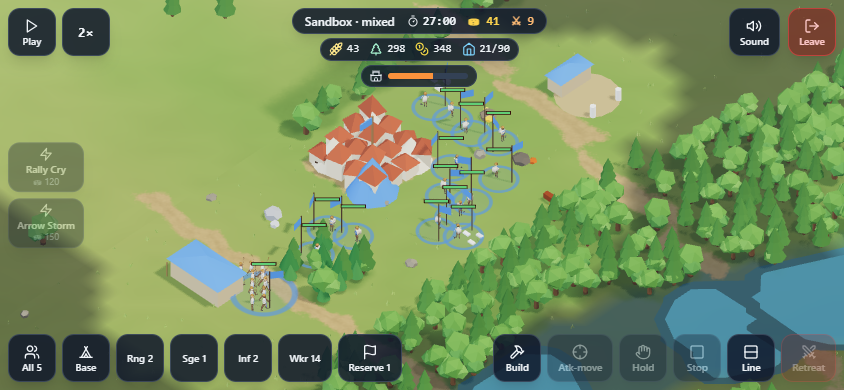
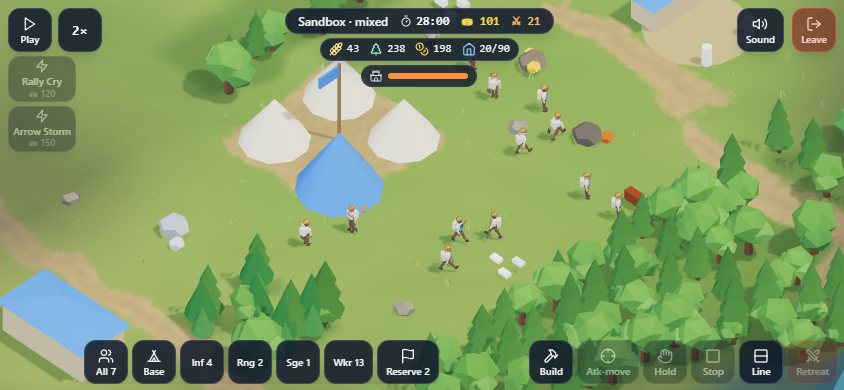
Battle economy: population split and one-tap village house when training waits, phone bench --eco, desktop shots, notes
The building panel shows where the population is (army, laborers, training)
and, when its queue waits for housing, a button that places a village house.
battle-phone-bench.mjs takes --eco. CLAUDE.md and the master plan record phase
R1. The razed-buildings test forges an empty city report so the AI battle's
own damage (longer with the economy) cannot change it.

diff --git a/src/components/battle/EconomyHud.jsx b/src/components/battle/EconomyHud.jsx
@@ -59,7 +59,7 @@ export const BuildMenu = ({ ageId, stock, onPick, onClose }) => (
   </div>
 );
 
-export const BuildingPanel = ({ building, ageId, stock, onTrain, onCancel, onRally, rallyArmed, onClose }) => {
+export const BuildingPanel = ({ building, ageId, stock, eco = null, onTrain, onCancel, onRally, rallyArmed, onClose, onBuildHouse }) => {
   if (!building) return null;
   const def = BUILDINGS[building.type];
   const roles = (def.trains || []).filter((r) => trainableRoles(ageId).includes(r));
@@ -81,7 +81,15 @@ export const BuildingPanel = ({ building, ageId, stock, onTrain, onCancel, onRal
           ))}
         </div>
       )}
-      {building.queue[0]?.blocked === 'housing' && <div className="text-red-300">Needs housing: build a village house.</div>}
+      {eco?.popSplit && roles.length > 0 && (
+        <div className="text-[10px] text-slate-400" data-testid="battle-pop-split">Population {eco.pop}/{eco.cap}: army {eco.popSplit.army}, laborers {eco.popSplit.workers}, training {eco.popSplit.training}</div>
+      )}
+      {building.queue[0]?.blocked === 'housing' && (
+        <button type="button" onClick={onBuildHouse} disabled={!canPay(BUILDINGS.house.cost, stock)} data-testid="battle-build-house"
+          className="mt-1 w-full min-h-[40px] rounded-lg bg-red-950/70 border border-red-500 text-red-100 text-[10px] font-semibold flex items-center justify-center gap-1 disabled:opacity-50">
+          <Home className="w-3.5 h-3.5" />Paused for housing: build a village house, +10 <Cost cost={BUILDINGS.house.cost} stock={stock} />
+        </button>
+      )}
       {building.built && roles.length > 0 && (
         <div className="grid grid-cols-2 gap-1 mt-1">
           {roles.map((role) => (

diff --git a/src/engine/tacticalBattle.test.js b/src/engine/tacticalBattle.test.js
@@ -139,7 +139,7 @@ describe('RESOLVE_TACTICAL_BATTLE', () => {
     const setup = buildInvasionSetup(started, started.pendingBattle);
     expect(setup.structures.filter((st) => st.kind === 'building').map((st) => st.category).sort()).toEqual(['economy', 'military']);
     const { result } = runHeadless({ ...setup, controllers: ['ai', 'ai'] });
-    const forged = { ...result, report: { ...result.report, tactical: { ...result.report.tactical, razed: ['military', 'defense', 'bogus'] } } };
+    const forged = { ...result, report: { ...result.report, tactical: { ...result.report.tactical, razed: ['military', 'defense', 'bogus'], cityDamage: { destroyed: [], damaged: [] } } } }; // only the razed list (the AI battle's own city damage varies with the economy)
     const next = gameReducer(started, { type: ActionTypes.RESOLVE_TACTICAL_BATTLE, payload: { battleId: started.pendingBattle.id, result: forged } });
     expect(next.regions[BE_REGION].buildings.categories.military).toBe(0);
     expect(next.regions[BE_REGION].buildings.categories.economy).toBe(0);

diff --git a/src/components/battle/BattleHud.jsx b/src/components/battle/BattleHud.jsx
@@ -161,7 +161,7 @@ const BattleHud = ({
 
       {/* Bottom: chips (left) + command bar (right) */}
       <div className={`absolute bottom-0 inset-x-0 p-1.5 pb-[calc(0.375rem+env(safe-area-inset-bottom))] flex items-end justify-between gap-2 pointer-events-none ${hud.powers?.length ? 'pl-[84px]' : ''}`}>
-        <div className="pointer-events-auto flex gap-1 min-w-0 overflow-x-auto scrollbar-none" data-testid="battle-chips">
+        <div className="pointer-events-auto flex gap-1 min-w-0 max-w-[58%] overflow-x-auto scrollbar-none" data-testid="battle-chips">
           <HudButton icon={Users} label={`All ${onField.filter((q) => q.classId !== 'worker').length}`} onClick={() => onSelectClass('all')} testId="battle-select-all" />
           {eco && <HudButton icon={Tent} label="Base" onClick={onSelectHq} testId="battle-hq" />}
           {eco && eco.idleWorkers.length > 0 && <HudButton icon={Hammer} label={`Idle ${eco.idleWorkers.length}`} onClick={() => onSelectClass('idle')} testId="battle-idle-workers" />}

diff --git a/src/components/battle/TacticalBattleScreen.jsx b/src/components/battle/TacticalBattleScreen.jsx
@@ -418,7 +418,8 @@ const TacticalBattleView = ({ setup, playerSide = 0, title, resume = null, onChe
       />
       {buildMenu && hud?.eco && <BuildMenu ageId={setup.sides[playerSide].ageId} stock={hud.eco.stock} onPick={pickBuilding} onClose={() => setBuildMenu(false)} />}
       {ecoBuilding && (
-        <BuildingPanel building={ecoBuilding} ageId={setup.sides[playerSide].ageId} stock={hud.eco.stock}
+        <BuildingPanel building={ecoBuilding} ageId={setup.sides[playerSide].ageId} stock={hud.eco.stock} eco={hud.eco}
+          onBuildHouse={() => pickBuilding('house')}
           onTrain={(role) => send([{ type: 'train', building: ecoBuilding.idx, role }])}
           onCancel={(slot) => send([{ type: 'cancelTrain', building: ecoBuilding.idx, slot }])}
           rallyArmed={armed?.type === 'rally'}

diff --git a/src/battle/sim/economy.js b/src/battle/sim/economy.js
@@ -624,6 +624,9 @@ export const ecoView = (w, playerSide) => {
     pop: population(w, playerSide),
     cap: housingCap(w, playerSide),
     workers: workers.length,
+    // Where the population is (army, laborers, in training) and where the housing comes from.
+    popSplit: { workers: workers.filter((q) => q.onField || q.enterTick >= 0).length, training: activeTraining(w, playerSide), army: population(w, playerSide) - activeTraining(w, playerSide) - workers.filter((q) => q.onField || q.enterTick >= 0).length },
+    houses: eco.buildings.filter((b) => b.side === playerSide && b.type === 'house' && ready(w, b)).length,
     idleWorkers: workers.filter((q) => !q.job || q.order.type !== 'work').map((q) => q.idx),
     buildings: eco.buildings.map((b) => {
       const alive = ecoAlive(w, b);

diff --git a/plans/MASTER-PLAN.md b/plans/MASTER-PLAN.md
@@ -231,6 +231,19 @@ As in Age of Empires, every unit needs housing:
   landings all have workers, an HQ or camp, houses, depots, production and towers. Raids are the
   one light case (loot, burn, leave), because raiders come to plunder, not to stay.
 - No free armies: regular recruits from campaign escrow, auxiliaries demobilise (RTS plan 6.5).
+- **Phase R1 result (2026-10-06, branch claude/phase-r1-battle-economy).** The sim runs three
+  resources (integer milli-units), nodes from the tile and its neighbours (groves, stone, ore, gold,
+  herds, cattle, fish; a starter cluster a side and a contested middle), workers (gather, carry,
+  deposit, build with diminishing returns, repair the city or buildings for materials), 12
+  buildings (house +10, depots, farm, mine, trade post, four production buildings, aid post,
+  tower), queues that wait on housing, and the AI economy at every difficulty. One population per
+  sim entity (squad); a trained squad is a company of 200 strength, an auxiliary that demobilises
+  (R2 adds escrowed recruits). With an economy the clocks are 15 min (field) and 30 min (assault).
+  Battles without one hash exactly as before (bench 28bd75a2). Sim p95 at 300 a side with the
+  economy (260 regiments + laborers and trained squads up to 300): 1.9 to 2.0 ms desktop, about
+  8 ms at x4, within the 10 ms budget. Left for R2: escrow and campaign-authorized recruits, the
+  outcome service reading `tactical.economy`; for R4: the other ages' names and art. Screenshots in
+  plans/phase-r1/.
 
 ### 6.5 Independents in battle (independents plan)
 - Raids: the raiders' goal is loot (depots, fields, a trade post) and escape by an exit; the

diff --git a/CLAUDE.md b/CLAUDE.md
@@ -67,6 +67,12 @@ The live site is GitHub Pages, built into `docs/`.
 - `src/battle/`: the tactical RTS. `sim/` is an integer fixed-point 20 Hz deterministic sim
   driven only by orders, run in a Web Worker (`worker/`); `render/` is the three.js battlefield;
   `setup/` builds a battle from macro armies. UI in src/components/battle/.
+  Battle economy (phase R1, `setup.economy`, on for campaign battles, off by default in
+  `buildSetupFromArmies` so tests/parity/bench hash as before): catalog src/battle/data/economy.js,
+  nodes and camp src/battle/setup/economySetup.js, sim src/battle/sim/economy.js (workers, building,
+  training, housing cap, `tactical.economy` in the result) and economyAI.js, drawing
+  render/economyLayer.js, HUD EconomyHud.jsx. Workers are squads with `q.worker` (excluded from the
+  end rules and the army AI). `node scripts/battle-bench.mjs --eco`; `.claude/skills/battle-lab/eco-shot.mjs`.
 - `src/components/`: React UI (panels, modals, globe, map, battle screens).
 - Layout: `src/hooks/useLayoutMode.js` picks desktop / tablet / phone-landscape / phone-portrait and
   sets `<html data-layout>`. Phones play landscape (slim top bar, tab rail on the right, side
